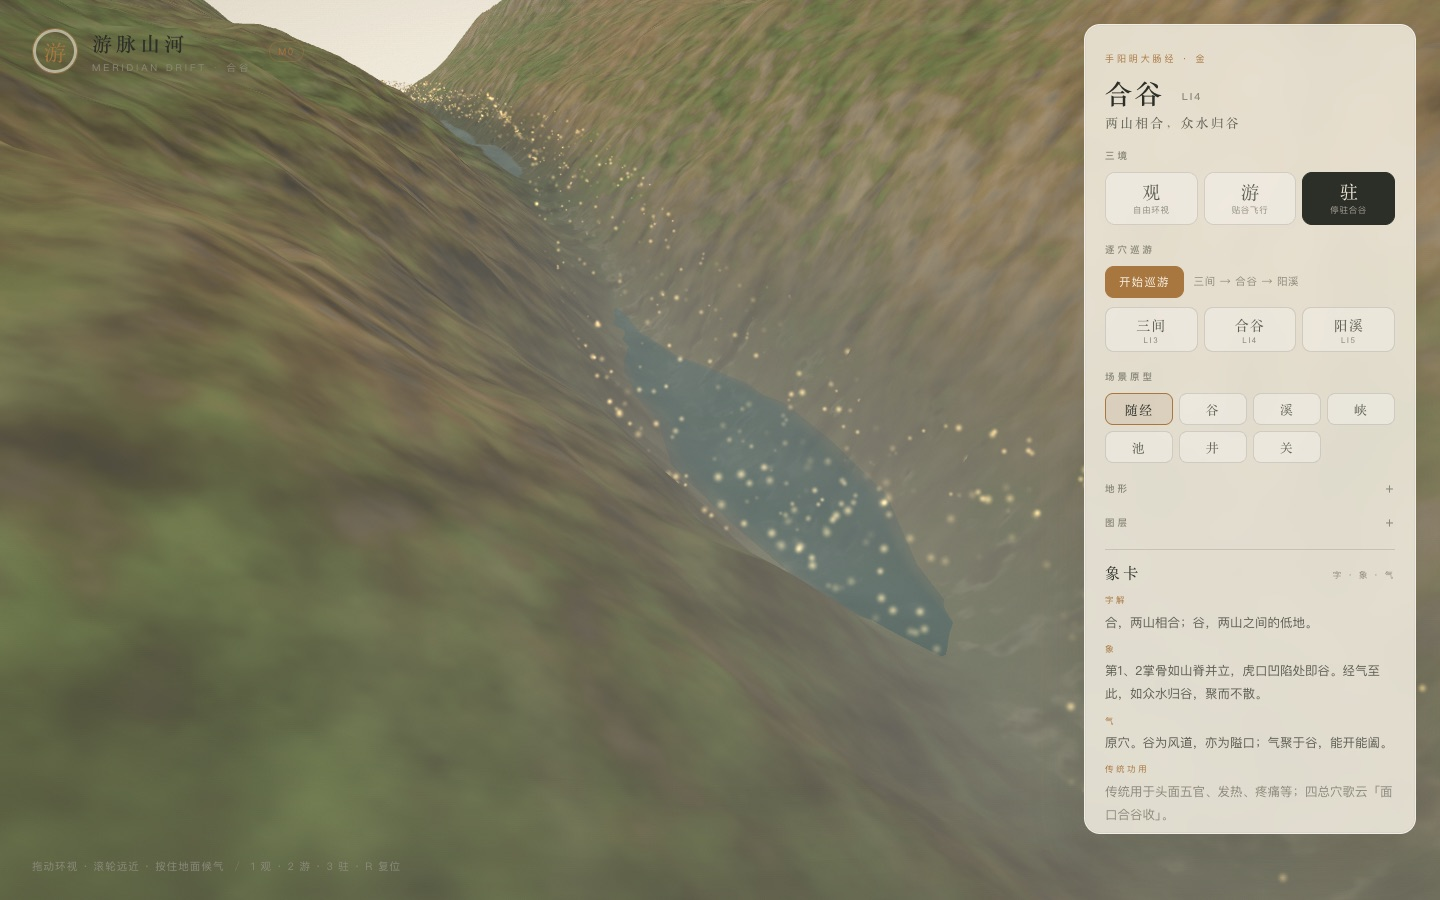
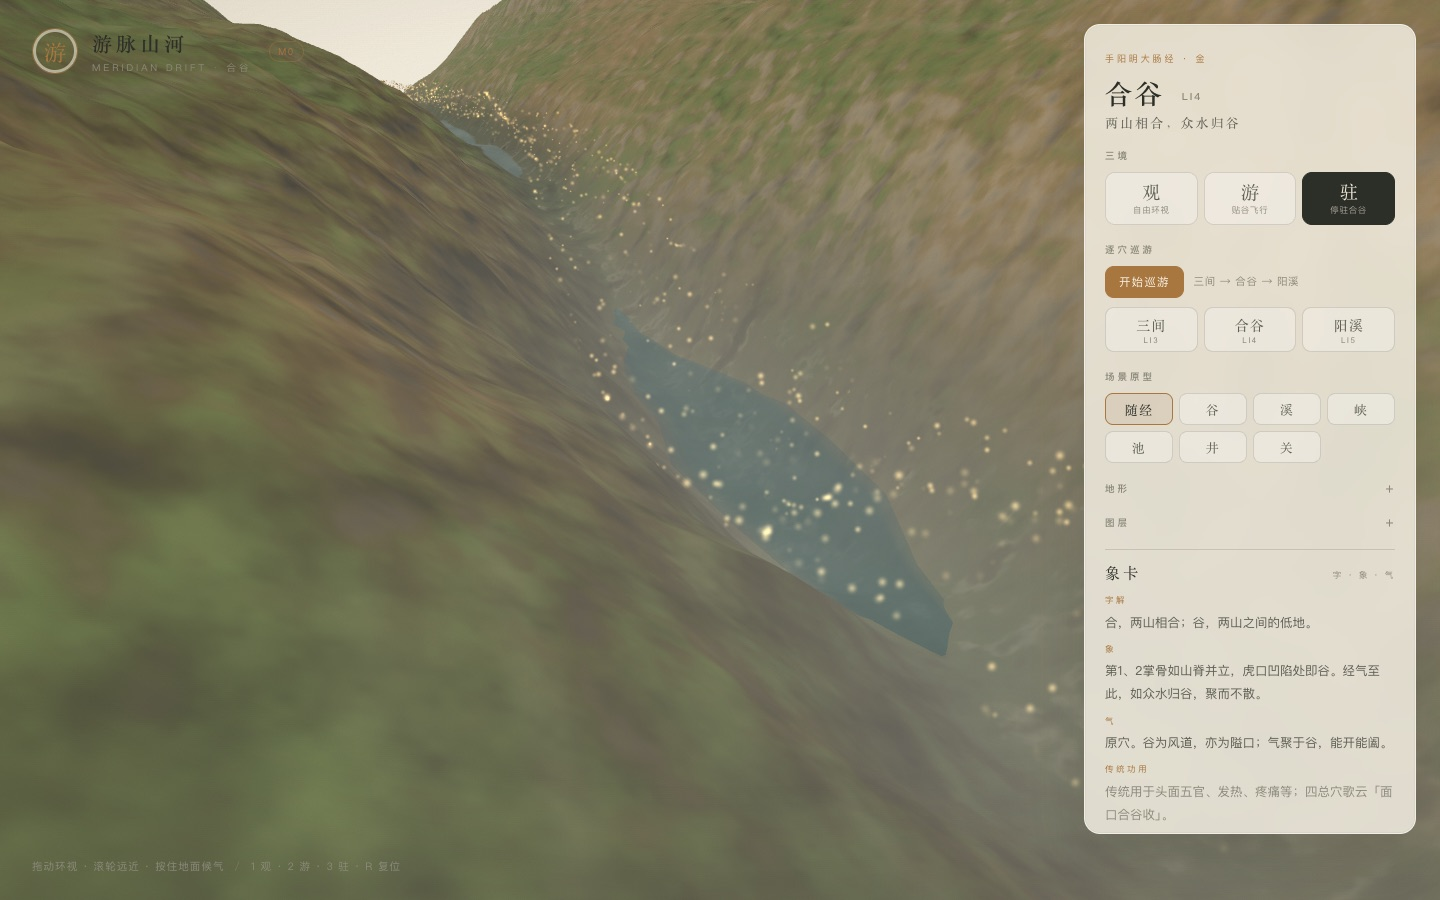
feat: M1 地形墨洗与纸感
- 地形材质加入轮廓 Fresnel、陡坡 hatch、积墨与纸纹
- 图层新增「墨」开关，只作用于地形，不影响标签/UI
- 屏幕空间 InkPass 因标签毛刺与纹理噪点回退，不留在代码里
- 新增文档 10，截图与 README 同步

diff --git a/packages/render/src/terrain/terrainMaterial.ts b/packages/render/src/terrain/terrainMaterial.ts
@@ -42,6 +42,7 @@ const fragmentShader = /* glsl */ `
   uniform vec3 uSunDir;
   uniform float uFogDensity;
   uniform float uInkStrength;
+  uniform float uInkBoost;
   uniform float uTime;
   uniform float uWaterY;
   uniform vec3 uSkin;
@@ -83,6 +84,7 @@ const fragmentShader = /* glsl */ `
 
   void main() {
     vec3 n = normalize(vNormalW);
+    vec3 viewDir = normalize(cameraPosition - vWorld);
 
     // 高频法线扰动：让岩面在微距下有颗粒与擦痕
     float e = 0.00016;
@@ -113,8 +115,17 @@ const fragmentShader = /* glsl */ `
     // 边缘化入皮肤（双象过渡）
     col = mix(col, uSkin, smoothstep(0.55, 0.97, vEdge));
 
-    // 积墨
-    col = mix(col, uInk, uInkStrength * smoothstep(0.04, 0.7, vConcavity) * 0.62);
+    // 积墨 + 山脊/陡坡的淡墨线
+    float rim = pow(1.0 - clamp(dot(n, viewDir), 0.0, 1.0), 3.0);
+    float hatch =
+      smoothstep(0.58, 0.92, slope) *
+      smoothstep(0.42, 0.78, fbm(vWorld.xz * 520.0 + vWorld.y * 700.0));
+    col = mix(col, uInk, uInkBoost * (rim * 0.2 + hatch * 0.14));
+    col = mix(
+      col,
+      uInk,
+      uInkBoost * uInkStrength * smoothstep(0.04, 0.7, vConcavity) * 0.62
+    );
     col *= 1.0 - 0.2 * smoothstep(0.35, 1.0, vConcavity);
 
     vec3 L = normalize(uSunDir);
@@ -122,10 +133,13 @@ const fragmentShader = /* glsl */ `
     float hemi = 0.45 + 0.55 * clamp(n.y, 0.0, 1.0);
     vec3 lit = col * (vec3(0.3, 0.33, 0.37) * hemi + uSunColor * ndl * 1.32);
 
-    vec3 viewDir = normalize(cameraPosition - vWorld);
     vec3 halfDir = normalize(L + viewDir);
     float spec = pow(max(dot(n, halfDir), 0.0), 42.0) * smoothstep(0.15, 1.0, vWet);
     lit += uSunColor * spec * 0.06;
+
+    // 纸纹（只作用于地形，不碰标签与 UI）
+    float paper = hash21(gl_FragCoord.xy * 0.73) - 0.5;
+    lit *= 1.0 + paper * 0.03;
 
     // 谷底薄雾
     float valleyMist = smoothstep(uWaterY + 0.004, uWaterY - 0.0015, vWorld.y) * 0.26;
@@ -155,6 +169,7 @@ export function createTerrainMaterial(options: TerrainMaterialOptions): THREE.Sh
       uSunDir: { value: new THREE.Vector3(-0.45, 0.82, 0.35).normalize() },
       uFogDensity: { value: fogDensity },
       uInkStrength: { value: 0.7 },
+      uInkBoost: { value: 1 },
       uWaterY: { value: 0 },
       uSkin: { value: new THREE.Color('#d9b49c') },
       uTime: { value: 0 },

diff --git a/apps/web/src/scene/SceneHost.ts b/apps/web/src/scene/SceneHost.ts
@@ -39,6 +39,7 @@ export interface SceneVisibility {
   terrain: boolean;
   water: boolean;
   body: boolean;
+  ink: boolean;
   qi: boolean;
   mist: boolean;
   markers: boolean;
@@ -323,6 +324,7 @@ export class SceneHost {
   private applyVisibility(): void {
     if (!this.layers) return;
     this.layers.terrain.group.visible = this.visibility.terrain;
+    this.layers.terrain.setInk(this.visibility.ink);
     this.layers.water.group.visible = this.visibility.water;
     this.layers.body.group.visible = this.visibility.body && this.mode === 'observe';
     this.layers.qi.group.visible = this.visibility.qi;

diff --git a/packages/render/src/terrain/TerrainView.ts b/packages/render/src/terrain/TerrainView.ts
@@ -8,6 +8,7 @@ export interface TerrainView {
   material: THREE.ShaderMaterial;
   dispose(): void;
   setFogDensity(value: number): void;
+  setInk(enabled: boolean): void;
 }
 
 /** 把 scene-gen 的纯数据装配成 three 网格 */
@@ -45,6 +46,10 @@ export function createTerrainView(corridor: CorridorMeshData): TerrainView {
     },
     setFogDensity(value: number) {
       material.uniforms.uFogDensity!.value = value;
+    },
+    setInk(enabled: boolean) {
+      material.uniforms.uInkStrength!.value = enabled ? 0.7 : 0;
+      material.uniforms.uInkBoost!.value = enabled ? 1 : 0;
     },
   };
 }

diff --git a/apps/web/src/ui/Panel.tsx b/apps/web/src/ui/Panel.tsx
@@ -178,6 +178,11 @@ export function Panel(props: PanelProps) {
             onChange={(v) => props.onVisibility({ qi: v })}
           />
           <Toggle
+            label="墨"
+            checked={visibility.ink}
+            onChange={(v) => props.onVisibility({ ink: v })}
+          />
+          <Toggle
             label="身体"
             checked={visibility.body}
             onChange={(v) => props.onVisibility({ body: v })}

diff --git a/apps/web/src/App.tsx b/apps/web/src/App.tsx
@@ -39,6 +39,7 @@ const DEFAULT_VISIBILITY: SceneVisibility = {
   terrain: true,
   water: true,
   body: false,
+  ink: true,
   qi: true,
   mist: true,
   markers: true,

diff --git a/docs/10-M1-地形墨洗与纸感.md b/docs/10-M1-地形墨洗与纸感.md
@@ -1,0 +1,104 @@
+# 游脉山河 · M1 增量：地形墨洗与纸感
+
+> 墨应该长在山里，而不是盖在画面上。
+> 这次把墨洗与纸纹做进地形材质，标签和 UI 保持干净。
+
+- 状态：已完成并部署（2026-11-03）
+- 范围：合谷走廊地形
+- 线上：<https://yunhenk.github.io/inner-travel/>
+
+![地形墨洗](screenshots/observe.jpg)
+
+---
+
+## 1. 先试了屏幕空间，然后回退
+
+一开始做的是 EffectComposer + 亮度 Sobel 的 InkPass，想一次性做「墨线 + 纸纹 + 暗角」。实际截图里：
+
+- 亮度边缘把地形的高频颗粒全部勾出来，山体变成一层噪点；
+- 穴位标签是 canvas sprite，文字边缘也被 Sobel 反复描边，出现灰边和毛刺；
+- 半浮点 + OutputPass 之后，整体颜色偏灰，FPS 也从 13 掉到 6（SwiftShader）。
+
+这不是「墨」，是压缩伪影。与其硬上，不如把墨限制在地形上。**屏幕空间版本已回退**，没有留在代码里。
+
+---
+
+## 2. 墨洗做进地形材质
+
+在 `packages/render/src/terrain/terrainMaterial.ts` 里加了三笔：
+
+| 笔触 | 做法 |
+| --- | --- |
+| 山脊/轮廓 | Fresnel：`pow(1 - dot(n, viewDir), 3)`，沿视线边缘压墨 |
+| 陡坡皴擦 | `slope × fbm(world.xz)` 的稀疏 hatch，只在高坡度出现 |
+| 谷底积墨 | 原有的 `aConcavity`，低洼处加深 |
+| 纸纹 | `hash21(gl_FragCoord)` 的 3% 明暗扰动，只作用于地形 |
+
+核心几行：
+
+```glsl
+float rim = pow(1.0 - clamp(dot(n, viewDir), 0.0, 1.0), 3.0);
+float hatch = smoothstep(0.58, 0.92, slope)
+            * smoothstep(0.42, 0.78, fbm(vWorld.xz * 520.0 + vWorld.y * 700.0));
+col = mix(col, uInk, uInkBoost * (rim * 0.2 + hatch * 0.14));
+```
+
+`uInkBoost` 与 `uInkStrength` 由 `TerrainView.setInk()` 控制，默认开启。
+
+---
+
+## 3. 开关
+
+图层里新增「墨」：
+
+- 开：轮廓、陡坡皴擦、谷底积墨都保留；
+- 关：`uInkBoost = 0`、`uInkStrength = 0`，回到干净地形；
+- 纸纹是地形的轻微质感，不随「墨」关闭，避免开关时画面突然变塑料。
+
+因为只改地形材质，标签、穴位环、水面、气粒子、UI 都不受影响，也没有新增 render target 或全屏 pass，性能与之前一致。
+
+---
+
+## 4. 验证
+
+| 项 | 结果 |
+| --- | --- |
+| `pnpm typecheck` | 通过 |
+| `pnpm test` | 28 项通过 |
+| `pnpm build` | 通过 |
+| 截图 | 观/游/驻/巡游/候气/原型全部重新生成 |
+| 标签 | 文字边缘干净，无屏幕空间后处理的毛刺 |
+| 性能 | 仍是单次前向渲染 + 自定义地形材质，无 composer |
+
+---
+
+## 5. 已知取舍
+
+- 这是**地形墨洗**，不是屏幕空间墨线；山体与天空/水面的轮廓不会整体描边；
+- 陡坡 hatch 用世界坐标 fbm，不同尺度下密度会变化；
+- 纸纹不随「墨」开关，属于常驻质感；
+- 真正的 DOF 与全屏墨线仍需要 depth/normal pass，以及把标签移到 post 之后单独渲染。
+
+---
+
+## 6. 下一步
+
+- 若继续做屏幕空间：先加 depth + normal 双 pass，并给标签/穴位环单独做 overlay；
+- DOF 聚焦合谷/当前站点，光圈与微距景深要非常克制；
+- GLB 手部与 20 穴；
+- 把原型/墨洗参数搬进 `content/`。
+
+---
+
+## 7. 相关文档
+
+- [设计文档](01-设计文档.md)
+- [实现架构](02-实现架构.md)
+- [取象词典](03-取象词典.md)
+- [M0 实现说明](04-M0实现说明.md)
+- [代码目录说明](05-代码目录说明.md)
+- [M1：气、象卡与候气](06-M1-气与象卡.md)
+- [M1：逐穴巡游](07-M1-逐穴巡游.md)
+- [M1：场景原型](08-M1-场景原型.md)
+- [M1：Worker 与缓存](09-M1-Worker与缓存.md)
+- [README](../README.md)

diff --git a/docs/05-代码目录说明.md b/docs/05-代码目录说明.md
@@ -460,6 +460,13 @@ M0 里还有几处硬编码需要先泛化（M1 任务）：
 
 优先用面板/URL 参数；确认后写回 `DEFAULT_TERRAIN`（`field.ts`）、`DEFAULT_BUILD`（`build.ts`）或 `CameraRig` 的机位常量。
 
+### 调墨洗
+
+- 材质：`packages/render/src/terrain/terrainMaterial.ts` 的 `rim / hatch / paper` 项；
+- 开关：`TerrainView.setInk`，面板「图层 → 墨」；
+- 墨量：`uInkBoost`（轮廓/皴擦）与 `uInkStrength`（积墨）；
+- 纸纹：`hash21(gl_FragCoord.xy * 0.73) * 0.03`，只作用于地形。
+
 ### 调原型
 
 - 参数：`packages/scene-gen/src/corridor/archetypes.ts` 的 `ARCHETYPES`；

diff --git a/docs/09-M1-Worker与缓存.md b/docs/09-M1-Worker与缓存.md
@@ -124,7 +124,7 @@ SceneHost 构造
 
 - 首屏异步化 + 缓存预热（打开上次的 seed/原型）；
 - Worker 进度事件与骨架过渡；
-- DOF / Ink 后处理；
+- 真正的屏幕空间 DOF/墨线（需 depth/normal + 标签 overlay），地形墨洗已见 [10](10-M1-地形墨洗与纸感.md)；
 - GLB 手部与 20 穴。
 
 ---
